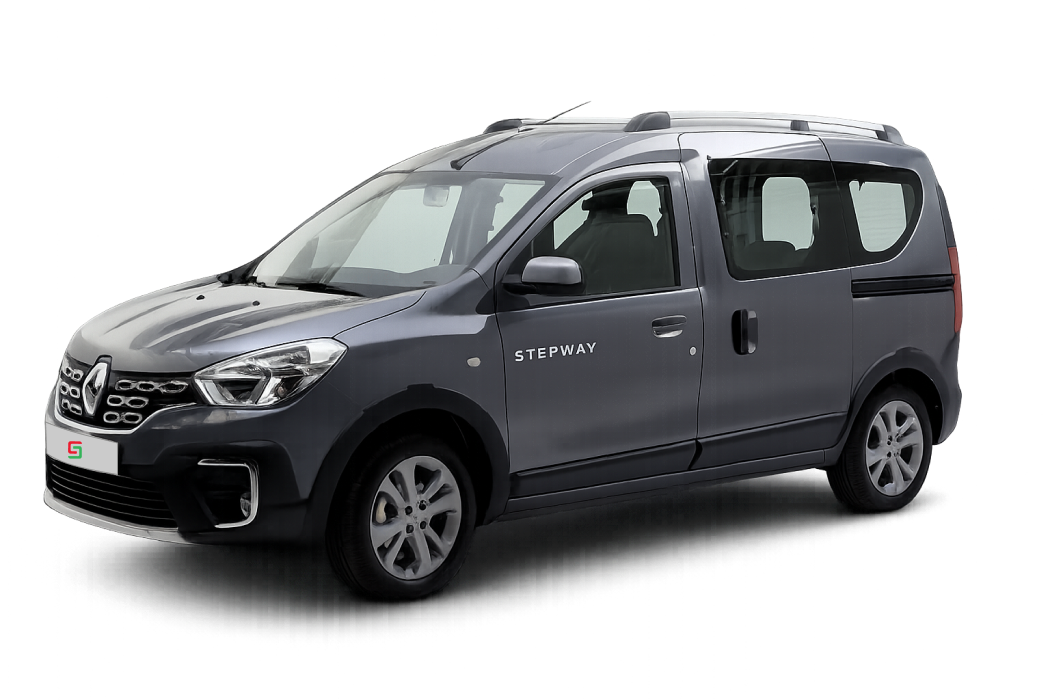
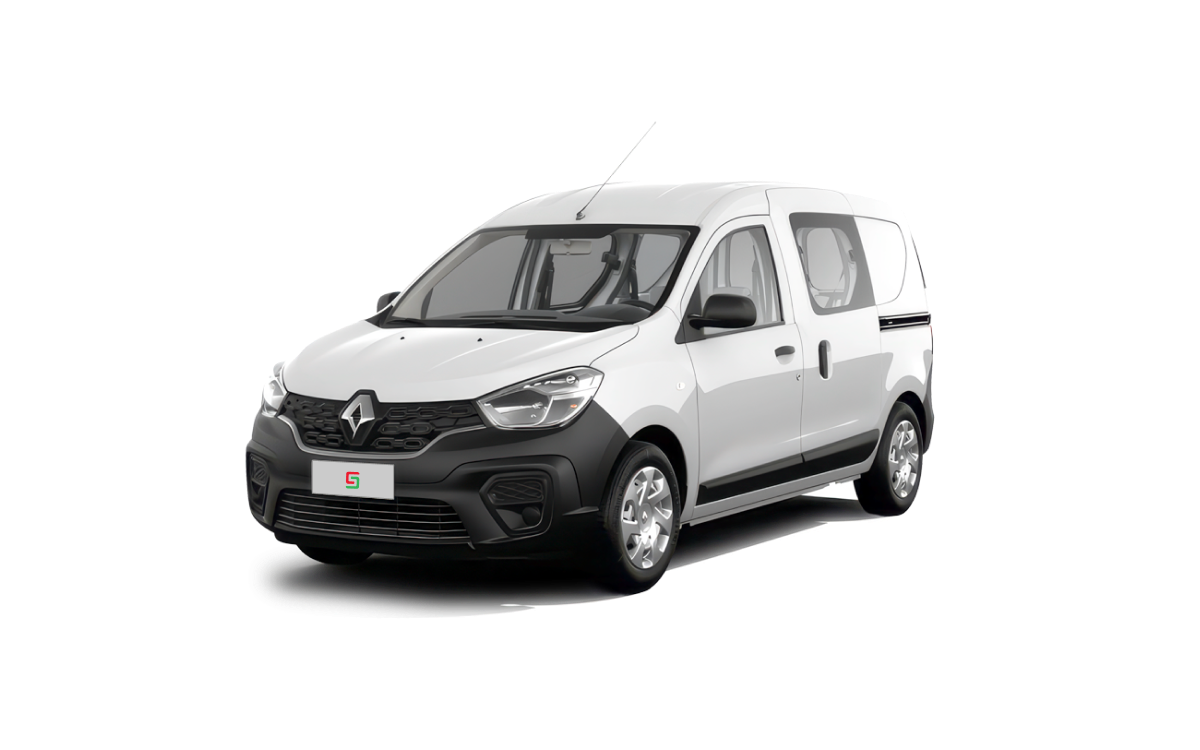
Improve plan media presentation

diff --git a/assets/css/pages/plans.css b/assets/css/pages/plans.css
@@ -1586,19 +1586,25 @@ body.plan-drawer-open {
   justify-content: center;
   min-height: clamp(340px, 40vw, 500px);
   padding: clamp(8px, 1.5vw, 18px);
+  --plan-media-detail-scale: 1.06;
 }
 
 .plan-detail-card__image[data-image-position="money"] {
   align-items: flex-start;
   min-height: clamp(430px, 43vw, 560px);
   padding-block-start: clamp(88px, 8vw, 128px);
+  --plan-media-detail-scale: 1;
+}
+
+.plan-detail-card[data-media-fit="large-vehicle"] .plan-detail-card__image {
+  --plan-media-detail-scale: 1.1;
 }
 
 .plan-detail-card__image img {
   filter: drop-shadow(0 22px 18px rgb(41 41 41 / 0.12));
   max-height: var(--plan-media-detail-max-height, clamp(360px, 43vw, 560px));
   object-fit: contain;
-  transform: translateY(var(--plan-media-detail-offset-y, 0));
+  transform: translateY(var(--plan-media-detail-offset-y, 0)) scale(var(--plan-media-detail-scale, 1));
   width: var(--plan-media-detail-width, 100%);
 }
 
@@ -1656,7 +1662,7 @@ body.plan-drawer-open {
   border-radius: 14px;
   box-shadow: 0 18px 38px rgb(41 41 41 / 0.08);
   display: grid;
-  grid-template-columns: repeat(5, minmax(0, 1fr));
+  grid-template-columns: repeat(var(--plan-angle-count, 5), minmax(0, 1fr));
   margin: 0 auto;
   max-width: min(760px, 100%);
   min-width: 0;
@@ -1733,9 +1739,9 @@ body.plan-drawer-open {
   border: 0;
   border-radius: 999px;
   grid-column: 1 / -1;
-  height: 6px;
-  margin: 0.45rem 10% 0.95rem;
-  min-height: 6px;
+  height: 8px;
+  margin: 0.5rem 10% 1rem;
+  min-height: 14px;
   padding: 0;
   width: auto;
 }
@@ -1747,8 +1753,8 @@ body.plan-drawer-open {
   border-radius: 999px;
   box-shadow: 0 1px 3px rgb(41 41 41 / 0.18);
   cursor: grab;
-  height: 10px;
-  width: 58px;
+  height: 14px;
+  width: 66px;
 }
 
 .plan-angle-range:active::-webkit-slider-thumb {
@@ -1761,8 +1767,8 @@ body.plan-drawer-open {
   border-radius: 999px;
   box-shadow: 0 1px 3px rgb(41 41 41 / 0.18);
   cursor: grab;
-  height: 10px;
-  width: 58px;
+  height: 14px;
+  width: 66px;
 }
 
 .plan-angle-range:active::-moz-range-thumb {
@@ -2336,6 +2342,45 @@ body.plan-drawer-open {
       translate(var(--plan-media-featured-hover-x, var(--plan-media-featured-x, 2%)), 9%);
   }
 
+  .plan-detail-card__visual {
+    grid-template-rows: minmax(410px, 1fr) auto;
+    min-height: clamp(560px, 70vw, 720px);
+  }
+
+  .plan-detail-card__image {
+    min-height: clamp(410px, 50vw, 560px);
+    --plan-media-detail-scale: 1.14;
+  }
+
+  .plan-detail-card__image img {
+    max-height: var(--plan-media-detail-max-height, clamp(430px, 54vw, 620px));
+    max-width: 106%;
+    width: var(--plan-media-detail-width, min(106%, 820px));
+  }
+
+  .plan-detail-card[data-media-fit="large-vehicle"] .plan-detail-card__image img {
+    max-width: 104%;
+    width: 104%;
+  }
+
+  .plan-detail-card[data-media-fit="large-vehicle"] .plan-detail-card__image {
+    --plan-media-detail-scale: 1.18;
+  }
+
+  .plan-angle-range {
+    height: 10px;
+    min-height: 18px;
+  }
+
+  .plan-angle-range::-webkit-slider-thumb {
+    height: 18px;
+    width: 72px;
+  }
+
+  .plan-angle-range::-moz-range-thumb {
+    height: 18px;
+    width: 72px;
+  }
 }
 
 @media (hover: none) and (max-width: 1120px) {
@@ -2770,17 +2815,17 @@ body.plan-drawer-open {
     min-height: auto;
     min-width: 0;
     overflow-x: hidden;
-    padding: clamp(170px, 28vw, 220px) 0 var(--space-4);
+    padding: clamp(142px, 23vw, 184px) 0 var(--space-4);
     width: 100%;
   }
 
   .plan-detail-card[data-image-folder$="ford-ranger"] .plan-detail-card__visual {
     min-height: auto;
-    padding-block-start: clamp(218px, 35vw, 270px);
+    padding-block-start: clamp(184px, 30vw, 230px);
   }
 
   .plan-detail-card[data-image-folder$="ford-ranger"] .plan-detail-card__image {
-    min-height: 330px;
+    min-height: clamp(370px, 54vh, 470px);
   }
 
   .plan-detail-card__brand-panel {
@@ -2808,25 +2853,32 @@ body.plan-drawer-open {
   .plan-detail-card__image {
     box-sizing: border-box;
     max-width: 100%;
-    min-height: 285px;
+    min-height: clamp(360px, 52vh, 470px);
     min-width: 0;
     overflow: hidden;
     width: 100%;
+    --plan-media-detail-scale: 1.2;
   }
 
   .plan-detail-card__image[data-image-position="money"] {
     min-height: 360px;
     padding-block-start: clamp(72px, 20vw, 110px);
+    --plan-media-detail-scale: 1;
   }
 
   .plan-detail-card__image img {
-    max-width: 100%;
-    max-height: 500px;
+    max-height: var(--plan-media-detail-max-height, clamp(390px, 58vh, 560px));
+    max-width: 112%;
+    width: var(--plan-media-detail-width, min(112%, 760px));
   }
 
   .plan-detail-card[data-media-fit="large-vehicle"] .plan-detail-card__image img {
-    max-width: 84%;
-    width: 84%;
+    max-width: 108%;
+    width: 108%;
+  }
+
+  .plan-detail-card[data-media-fit="large-vehicle"] .plan-detail-card__image {
+    --plan-media-detail-scale: 1.24;
   }
 
   .plan-detail-card__image-note {
@@ -2847,7 +2899,7 @@ body.plan-drawer-open {
     border-inline: 0;
     border-radius: 0;
     box-sizing: border-box;
-    grid-template-columns: repeat(5, 20%);
+    grid-template-columns: repeat(var(--plan-angle-count, 5), minmax(0, 1fr));
     inline-size: 100vw;
     inline-size: 100dvw;
     justify-self: stretch;
@@ -2874,7 +2926,19 @@ body.plan-drawer-open {
   }
 
   .plan-angle-range {
-    margin: 0.42rem 8% 0.9rem;
+    height: 12px;
+    margin: 0.6rem 8% 1rem;
+    min-height: 24px;
+  }
+
+  .plan-angle-range::-webkit-slider-thumb {
+    height: 22px;
+    width: 86px;
+  }
+
+  .plan-angle-range::-moz-range-thumb {
+    height: 22px;
+    width: 86px;
   }
 }
 

diff --git a/assets/js/modules/pages/plans/catalog-detail.js b/assets/js/modules/pages/plans/catalog-detail.js
@@ -74,7 +74,11 @@ function createAngleSelector(plan, media) {
 
   return el("div", {
     className: "plan-angle-tabs",
-    attrs: { role: "group", "aria-label": `Vistas disponibles de ${plan.displayName}` },
+    attrs: {
+      role: "group",
+      "aria-label": `Vistas disponibles de ${plan.displayName}`,
+      style: `--plan-angle-count: ${media.images.length}`,
+    },
     children: [
       ...media.images.map((image) =>
         el("button", {

diff --git a/assets/js/modules/pages/plans/catalog-assets.js b/assets/js/modules/pages/plans/catalog-assets.js
@@ -52,6 +52,7 @@ const PLAN_IMAGE_FOLDERS = Object.freeze({
   949: "949-fiat-pulse",
   950: "950-fiat-fastback-turbo",
   951: "951-volkswagen-taos",
+  952: "952-chevrolet-equinox-at",
   956: "956-honda-xre300",
   957: "957-toyota-hiace",
   960: "960-honda-new-wave-110",